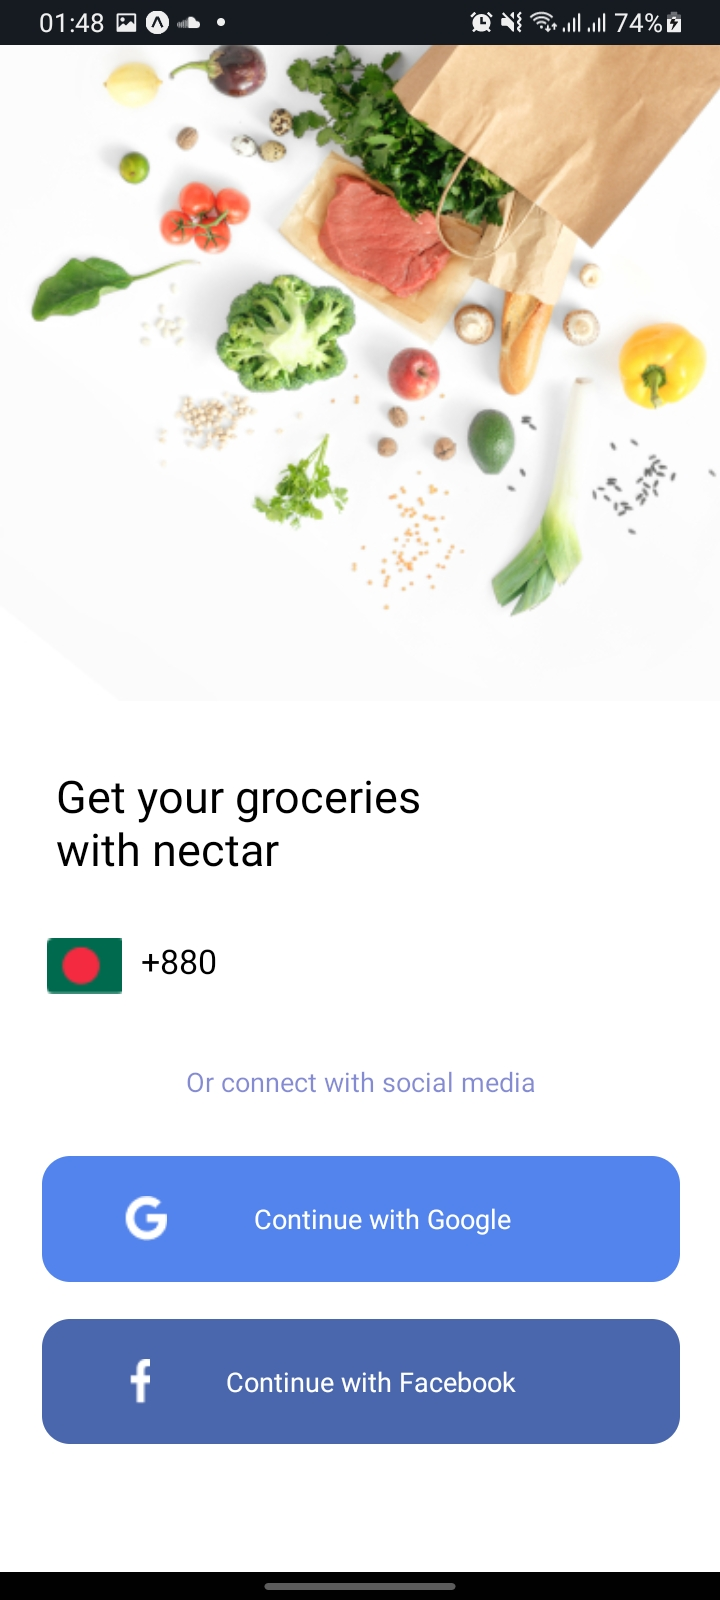
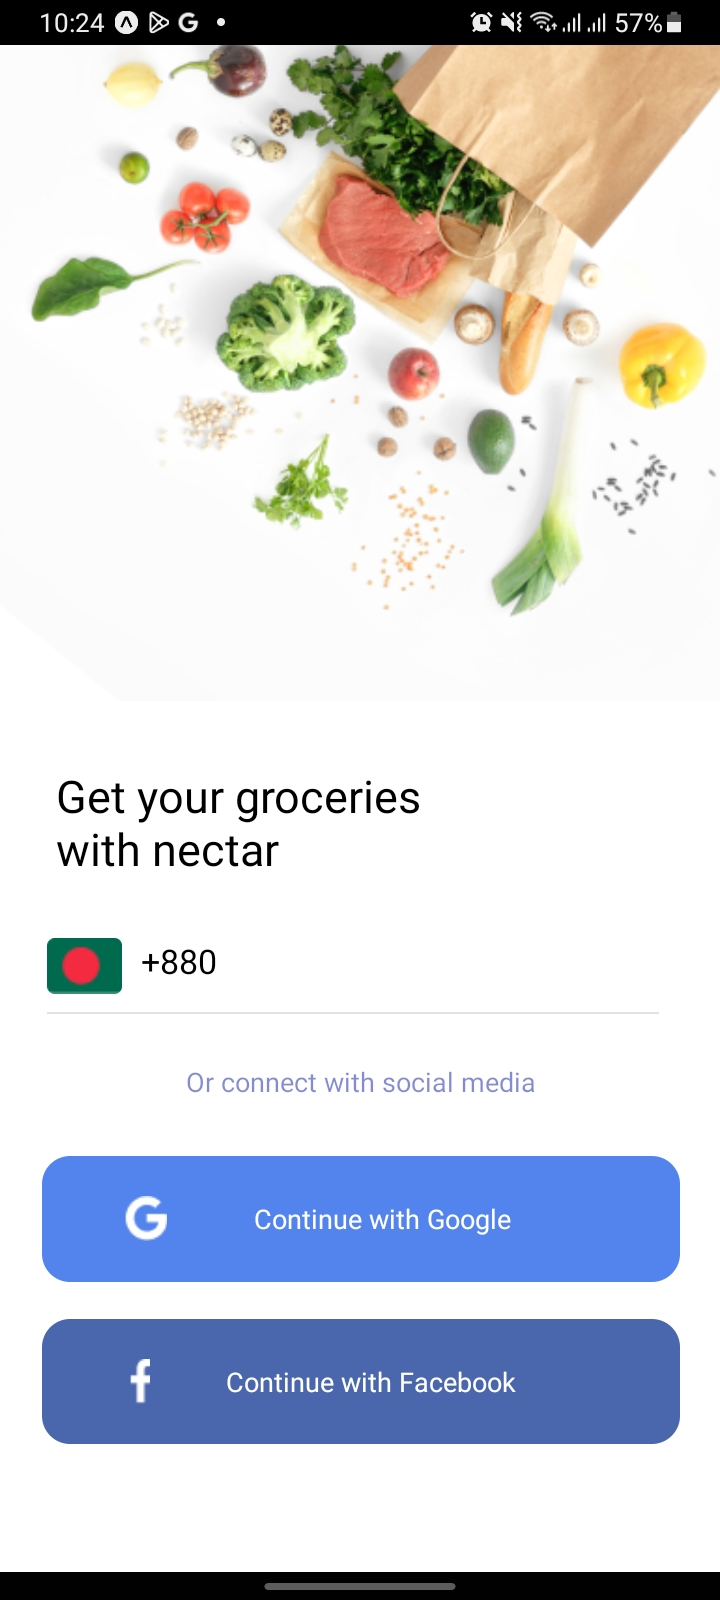
update hinh anh

Changed region(s): [[0.0, 0.0, 1.0, 0.0312]]

diff --git a/App.js b/App.js
@@ -41,7 +41,7 @@ function SignInScreen ({ navigation }) {
     
     <View style={styles.box2}>    
       <Image
-          style={styles.logo}
+          style={[styles.logo]}
           source={require('./assets/logo.png')}
       />
         <Text style={{fontSize:18}}>+880</Text>
@@ -115,6 +115,7 @@ logo: {
     width: 40,
     height: 30,
     marginRight: 10,
+    borderRadius:4,
 },
 buttonText: {
     color: 'white',
@@ -142,7 +143,11 @@ box2:{
   flexDirection:'row',
   position:'absolute',
   left:25,
-  top:500,
+  top:490,
+  borderBottomWidth:1,
+  width:'85%',
+  paddingVertical:10,
+  borderBottomColor:'#E2E2E2'
 },
 box3:{
   position:'absolute',
